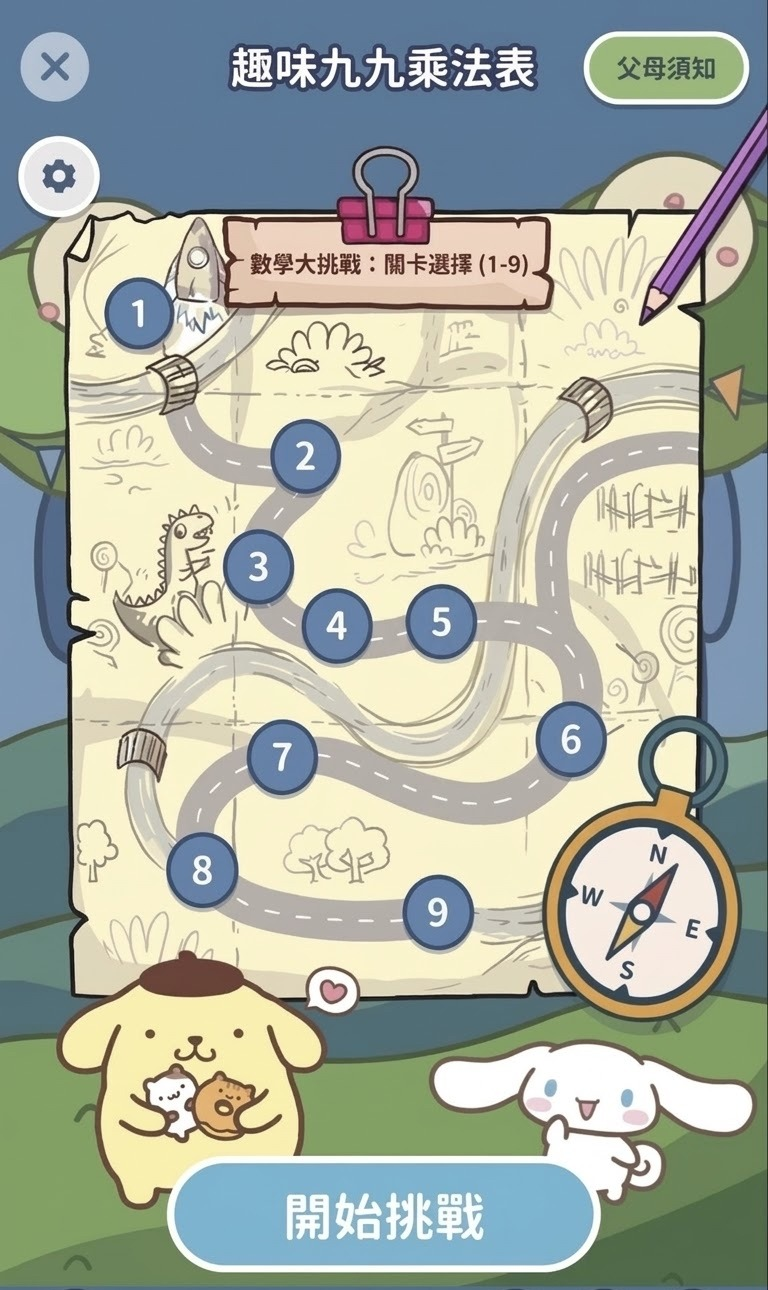
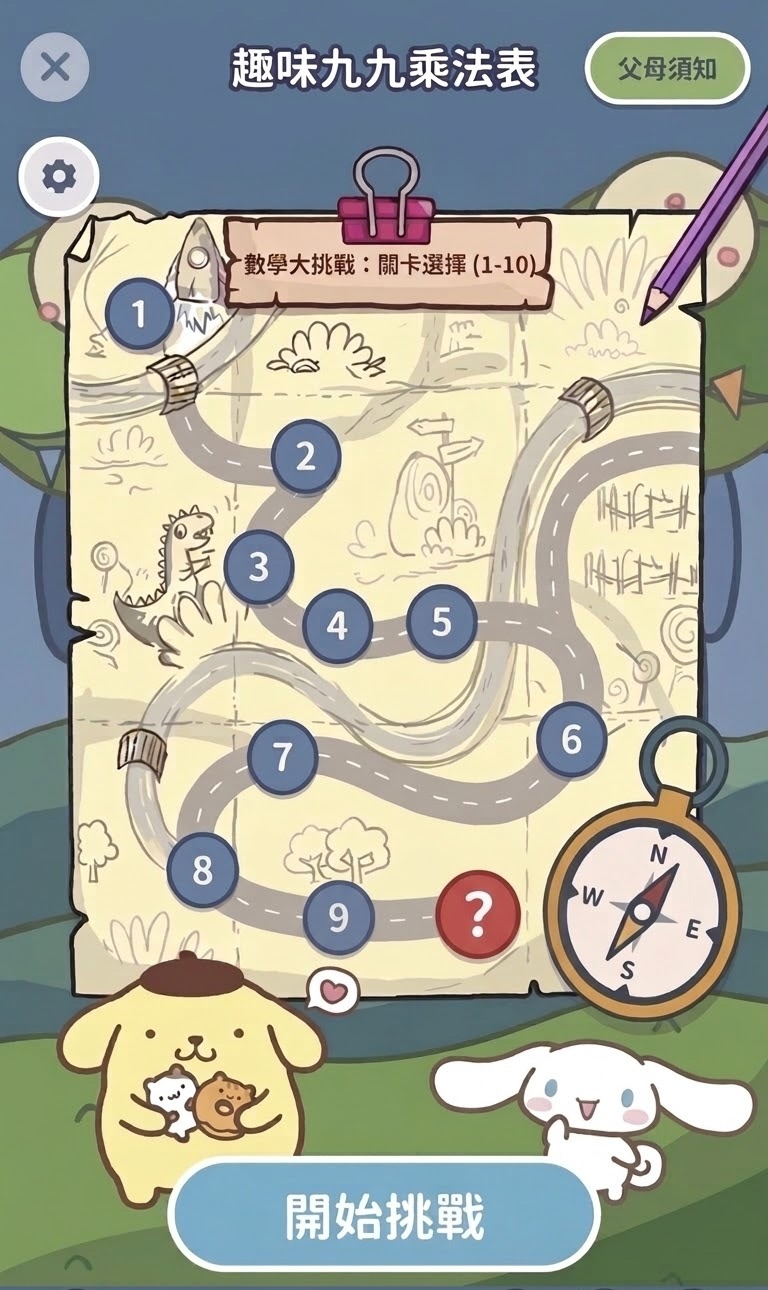
feat: 選關加上問號混合關
地圖改套新附件（含紅球問號）。點選後變成特殊色問號球，
測驗從 1 到 9 所有乘法亂數出 10 題。

diff --git a/select.html b/select.html
@@ -9,12 +9,12 @@
   <link rel="preconnect" href="https://fonts.gstatic.com" crossorigin>
   <link href="https://fonts.googleapis.com/css2?family=M+PLUS+Rounded+1c:wght@700;800&family=Noto+Sans+TC:wght@500;700;900&display=swap" rel="stylesheet">
   <link rel="stylesheet" href="styles.css">
-  <link rel="stylesheet" href="game.css">
+  <link rel="stylesheet" href="game.css?v=2">
 </head>
 <body>
   <main class="stage select-page" id="select">
     <div class="shot">
-      <img src="assets/select-ref.jpg" alt="趣味九九乘法表關卡選擇">
+      <img src="assets/select-ref.jpg?v=2" alt="趣味九九乘法表關卡選擇">
 
       <button class="hit hit-x" id="btn-back" type="button" aria-label="回主畫面"></button>
       <button class="hit hit-gear" id="btn-settings" type="button" aria-label="設定"></button>
@@ -30,6 +30,7 @@
         <button class="level" type="button" role="radio" aria-checked="false" data-n="7">7</button>
         <button class="level" type="button" role="radio" aria-checked="false" data-n="8">8</button>
         <button class="level" type="button" role="radio" aria-checked="false" data-n="9">9</button>
+        <button class="level" type="button" role="radio" aria-checked="false" data-n="mix" aria-label="混合挑戰">?</button>
       </div>
 
       <button class="hit hit-go" id="go-btn" type="button">開始挑戰</button>
@@ -69,6 +70,6 @@
   </div>
 
   <div class="toast" id="toast" role="status"></div>
-  <script src="select.js"></script>
+  <script src="select.js?v=2"></script>
 </body>
 </html>

diff --git a/game.css b/game.css
@@ -142,15 +142,32 @@
   pointer-events: none;
 }
 
-.level[data-n="1"] { left: 18.2%; top: 23.8%; }
-.level[data-n="2"] { left: 39.2%; top: 35.5%; }
-.level[data-n="3"] { left: 35.0%; top: 43.6%; }
-.level[data-n="4"] { left: 44.2%; top: 49.0%; }
-.level[data-n="5"] { left: 58.8%; top: 48.5%; }
-.level[data-n="6"] { left: 73.0%; top: 57.6%; }
-.level[data-n="7"] { left: 37.2%; top: 58.4%; }
-.level[data-n="8"] { left: 26.2%; top: 67.0%; }
-.level[data-n="9"] { left: 57.2%; top: 70.8%; }
+.level[data-n="1"] { left: 18.2%; top: 24.2%; }
+.level[data-n="2"] { left: 39.8%; top: 35.1%; }
+.level[data-n="3"] { left: 33.7%; top: 43.7%; }
+.level[data-n="4"] { left: 43.9%; top: 48.3%; }
+.level[data-n="5"] { left: 57.6%; top: 47.9%; }
+.level[data-n="6"] { left: 74.5%; top: 56.9%; }
+.level[data-n="7"] { left: 36.8%; top: 58.5%; }
+.level[data-n="8"] { left: 26.4%; top: 67.0%; }
+.level[data-n="9"] { left: 44.2%; top: 70.8%; }
+.level[data-n="mix"] { left: 62.2%; top: 70.9%; }
+
+.level[data-n="mix"].is-on {
+  background:
+    radial-gradient(circle at 32% 28%, #ffe08a, #ff5fb1 48%, #9b4dff 82%);
+  color: #fff;
+  border: 3px solid #6a1b7a;
+  text-shadow: 0 1px 0 rgba(40, 10, 50, 0.4);
+  box-shadow:
+    0 0 0 7px oklch(75% 0.22 330 / 0.42),
+    0 0 22px 6px oklch(70% 0.24 330 / 0.55),
+    0 4px 0 #7a1870;
+}
+
+.level[data-n="mix"].is-on::after {
+  border-color: oklch(78% 0.18 330 / 0.75);
+}
 
 .stage.quiz-page {
   display: flex;

diff --git a/play.js b/play.js
@@ -5,11 +5,12 @@
 
   const params = new URLSearchParams(location.search);
   const n = params.get("n") || "";
-  if (!/^[1-9]$/.test(n)) {
+  const isMix = n === "mix";
+  if (!/^[1-9]$/.test(n) && !isMix) {
     location.replace("select.html");
     return;
   }
-  const level = Number(n);
+  const level = isMix ? 0 : Number(n);
 
   const equationEl = $("#equation");
   const choicesEl = $("#choices");
@@ -109,7 +110,31 @@
     });
   }
 
-  let questions = buildQuestions(level);
+  function buildMixQuestions() {
+    const pairs = [];
+    for (let a = 1; a <= 9; a += 1) {
+      for (let b = 1; b <= 9; b += 1) {
+        pairs.push([a, b]);
+      }
+    }
+    return shuffle(pairs).slice(0, TOTAL).map((pair) => {
+      const a = pair[0];
+      const b = pair[1];
+      const answer = a * b;
+      return {
+        a,
+        b,
+        answer,
+        choices: makeChoices(a, b, answer)
+      };
+    });
+  }
+
+  function makeQuiz() {
+    return isMix ? buildMixQuestions() : buildQuestions(level);
+  }
+
+  let questions = makeQuiz();
   let index = 0;
   let correct = 0;
   let wrong = 0;
@@ -208,7 +233,7 @@
   $("#btn-back").addEventListener("click", goMap);
   $("#back-map").addEventListener("click", goMap);
   $("#retry").addEventListener("click", () => {
-    questions = buildQuestions(level);
+    questions = makeQuiz();
     index = 0;
     correct = 0;
     wrong = 0;

diff --git a/select.js b/select.js
@@ -54,8 +54,13 @@
     showToast.timer = setTimeout(() => toast.classList.remove("is-on"), 2200);
   }
 
+  function isLevel(n) {
+    const s = String(n);
+    return /^[1-9]$/.test(s) || s === "mix";
+  }
+
   function applySelect(n, persist) {
-    if (!/^[1-9]$/.test(String(n))) return;
+    if (!isLevel(n)) return;
     selected = String(n);
     balls.forEach((btn) => {
       const on = btn.dataset.n === selected;
@@ -75,8 +80,8 @@
 
   const fromHash = (location.hash || "").replace("#", "");
   const fromStore = localStorage.getItem("times99.level") || "";
-  if (/^[1-9]$/.test(fromHash)) applySelect(fromHash, true);
-  else if (/^[1-9]$/.test(fromStore)) applySelect(fromStore, false);
+  if (isLevel(fromHash)) applySelect(fromHash, true);
+  else if (isLevel(fromStore)) applySelect(fromStore, false);
 
   if (!selected && goBtn) goBtn.classList.add("is-wait");
 
@@ -130,7 +135,7 @@
       closeDlg(parentsDlg);
       return;
     }
-    if (!/^[1-9]$/.test(e.key)) return;
+    if (!isLevel(e.key)) return;
     applySelect(e.key, true);
   });
 

diff --git a/play.html b/play.html
@@ -9,7 +9,7 @@
   <link rel="preconnect" href="https://fonts.gstatic.com" crossorigin>
   <link href="https://fonts.googleapis.com/css2?family=M+PLUS+Rounded+1c:wght@700;800&family=Noto+Sans+TC:wght@500;700;900&display=swap" rel="stylesheet">
   <link rel="stylesheet" href="styles.css">
-  <link rel="stylesheet" href="game.css">
+  <link rel="stylesheet" href="game.css?v=2">
 </head>
 <body>
   <main class="stage quiz-page" id="quiz">
@@ -62,6 +62,6 @@
 
   <audio id="bgm" src="assets/bgm.mp3?v=3" loop preload="auto" autoplay playsinline></audio>
   <div class="toast" id="toast" role="status"></div>
-  <script src="play.js?v=2"></script>
+  <script src="play.js?v=3"></script>
 </body>
 </html>

diff --git a/README.md b/README.md
@@ -13,8 +13,10 @@ https://wt-jerry.github.io/times-tables-99/
 - 森林卡通主畫面（齒輪、父母須知、大顆「玩」）
 - 可愛狗狗角色
 - 設定：音效開關、小朋友稱呼（只存在這台裝置）
-- 關卡選擇：點 1～9，一次只能選一顆；選好後按「開始挑戰」
-- 關卡 1～9 是測驗：每次 10 題亂數四選一，結束後看答對／答錯題數
+- 關卡選擇：點 1～9 或紅球問號，一次只能選一顆；選好後按「開始挑戰」
+- 關卡 1～9 是該數的乘法測驗：每次 10 題亂數四選一
+- 問號關是混合測驗：從 1～9 所有乘法裡亂數出 10 題
+- 測驗結束後看答對／答錯題數
 
 ## 檔案
 
